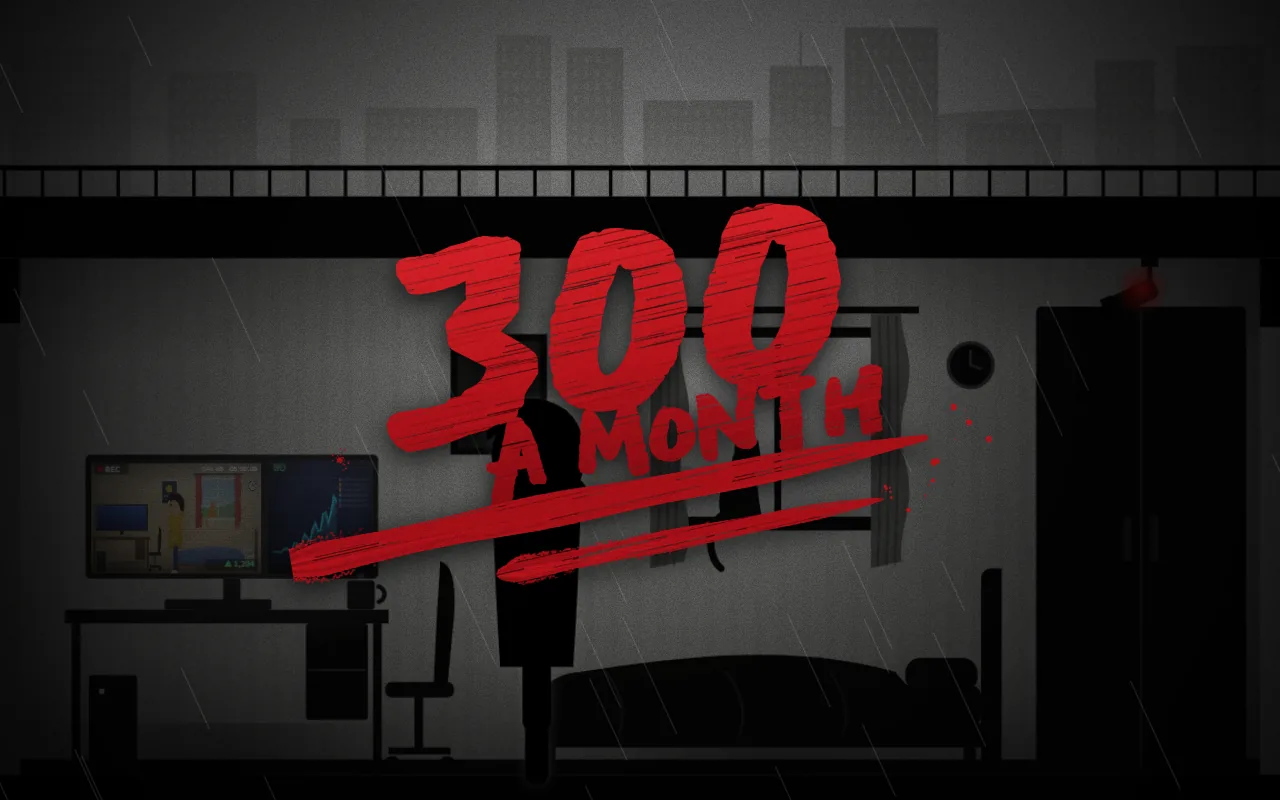
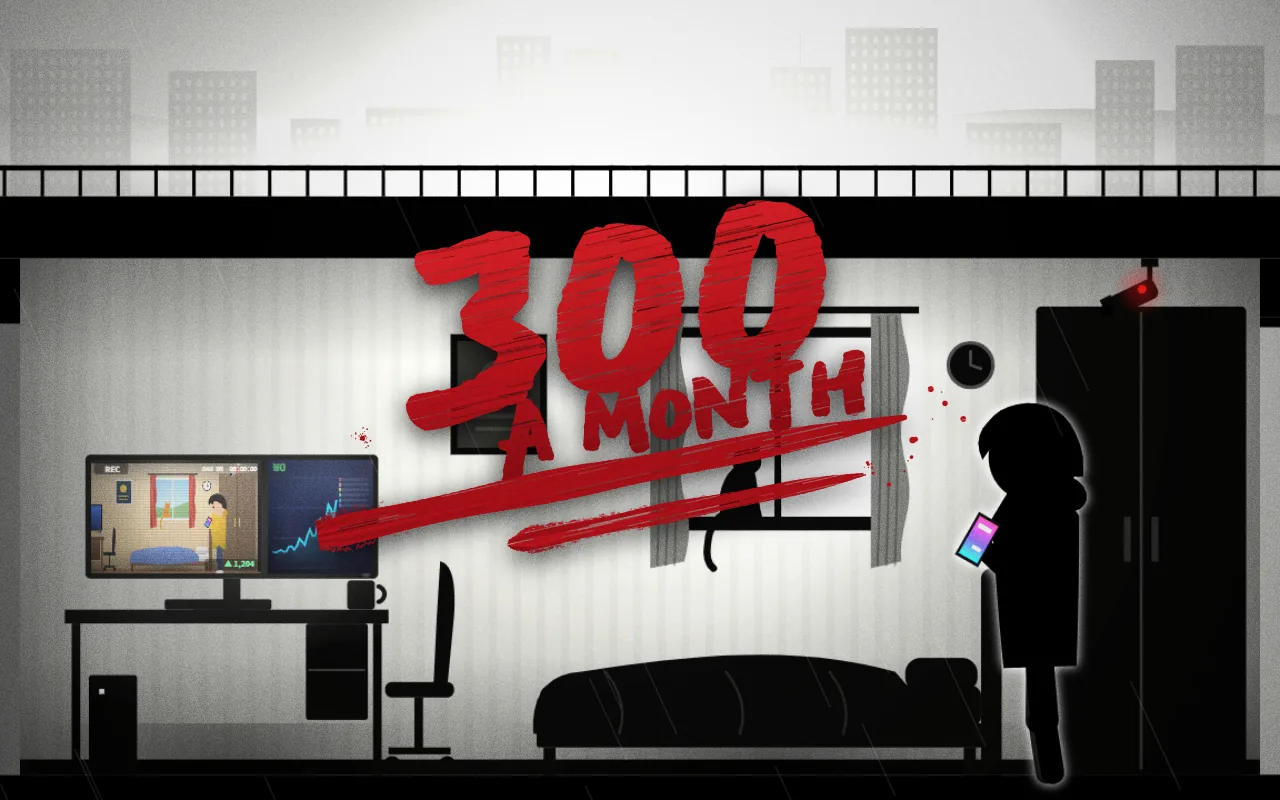
월300 표지·카드·미리보기 그림 한·영 다시 뜸: 주인공이 제목 뒤에 가려 안 보이던 것 → CCTV 달린 침실 오른쪽 구석 아래에서 폰 보는 자세로, 흰 테두리로 또렷하게, 화면 밝게(검은 막 뺌·밝기 1.32), 제목 조금 작게. 그림 주소 ?v=2 (사장님 2026-09-26 "카드에 사람이 안보이니까" "씨씨티비 달려있는 자리에" "폰보고있는장면" "너무 어두워" "사람이 안보임")

diff --git a/games/wol300/index.html b/games/wol300/index.html
@@ -24,7 +24,7 @@
 <meta property="og:title" content="월300 — 시뮬레이션게임·스토리게임·인디게임">
 <meta property="og:description" content="Ai에게 사생활데이터를 넘기고 기본소득300을 받아 생활하는 시뮬레이션게임 스토리게임. 오름게임즈가 만든 인디게임입니다. 자기의 사생활은 물론 길거리의 사람들을 찍어 AI 학습데이터 영상으로 팔아 3천만 원을 모읍니다.">
 <meta property="og:url" content="https://oreumgames.com/games/wol300/">
-<meta property="og:image" content="https://oreumgames.com/assets/wol300-og.webp?v=1">
+<meta property="og:image" content="https://oreumgames.com/assets/wol300-og.webp?v=2">
 <meta property="og:locale" content="ko_KR">
 <meta name="twitter:card" content="summary_large_image">
 
@@ -37,7 +37,7 @@
   "name": "월300",
   "alternateName": "300 A MONTH",
   "url": "https://oreumgames.com/games/wol300/",
-  "image": "https://oreumgames.com/assets/wol300-og.webp?v=1",
+  "image": "https://oreumgames.com/assets/wol300-og.webp?v=2",
   "description": "월300은 AI에게 사생활 데이터를 넘기고 한 달 기본소득 300만 원으로 사는 시뮬레이션게임이자 스토리게임입니다. 설치 없이 바로 하는 무료게임. 집 다섯 칸의 CCTV가 내 생활을 AI에 팔고, 라면 넘치기·의자 넘어지기 같은 사고와 골목 사람들을 캠코더로 찍은 영상은 AI 신선도 점수만큼 값이 붙습니다. 12달 안에 3천만 원을 모아 권총을 사고 CCTV를 모두 쏘면 엔딩입니다.",
   "applicationCategory": "GameApplication",
   "operatingSystem": "Web browser",
@@ -100,7 +100,7 @@
   <section class="showcase">
     <div class="wrap game-page">
       <a class="backlink" href="/games/">← 무료게임 목록</a>
-      <div class="gp-shot"><img src="/assets/wol300-shot.webp?v=1" alt="흑백으로 가라앉은 원룸 침실에 남자 실루엣과 창턱의 고양이, 모니터 화면만 컬러로 빛나고 그 위에 붉은 붓글씨로 월300 제목이 비스듬히 쓰여 있다" width="800" height="500"></div>
+      <div class="gp-shot"><img src="/assets/wol300-shot.webp?v=2" alt="흑백으로 가라앉은 원룸 침실에 남자 실루엣과 창턱의 고양이, 모니터 화면만 컬러로 빛나고 그 위에 붉은 붓글씨로 월300 제목이 비스듬히 쓰여 있다" width="800" height="500"></div>
       <h1>월300</h1>
       <p class="gp-cta"><a class="btn btn-primary" href="play/?v=20260926">🎮 바로 플레이</a></p>
       <p class="gp-line">월300은 AI에게 사생활 데이터를 넘기고 한 달 기본소득 300만 원으로 사는 시뮬레이션게임이자 스토리게임입니다. 설치 없이 웹에서 바로 하는 무료게임입니다.</p>

diff --git a/en/games/wol300/index.html b/en/games/wol300/index.html
@@ -24,7 +24,7 @@
 <meta property="og:title" content="300 A MONTH — simulation game, story game, indie game">
 <meta property="og:description" content="Sell your private life to an AI for a basic income of 3 million won a month. An indie game made by Oreum Games. Film your own private life, and the people on the street too, and sell it all to an AI as training footage to save 30 million won.">
 <meta property="og:url" content="https://oreumgames.com/en/games/wol300/">
-<meta property="og:image" content="https://oreumgames.com/assets/wol300-og-en.webp?v=1">
+<meta property="og:image" content="https://oreumgames.com/assets/wol300-og-en.webp?v=2">
 <meta property="og:locale" content="en_US">
 <meta name="twitter:card" content="summary_large_image">
 
@@ -37,7 +37,7 @@
   "name": "300 A MONTH",
   "alternateName": "월300",
   "url": "https://oreumgames.com/en/games/wol300/",
-  "image": "https://oreumgames.com/assets/wol300-og-en.webp?v=1",
+  "image": "https://oreumgames.com/assets/wol300-og-en.webp?v=2",
   "description": "300 A MONTH is a free simulation and story game about living on a basic income of 3 million won a month, paid for by letting an AI learn from your private life. Five CCTV cameras at home sell your daily routine; staged accidents and camcorder footage of strangers in the alley earn extra money based on how fresh the scene is to the AI. Save 30 million won within 12 months, buy a pistol and shoot every CCTV camera to reach the ending.",
   "applicationCategory": "GameApplication",
   "operatingSystem": "Web browser",
@@ -100,7 +100,7 @@
   <section class="showcase">
     <div class="wrap game-page">
       <a class="backlink" href="/en/games/">← All free games</a>
-      <div class="gp-shot"><img src="/assets/wol300-shot-en.webp?v=1" alt="A small bedroom drained to black and white, a man's silhouette and a cat on the windowsill, only the monitor glowing in color, with 300 A MONTH brushed across it in red" width="800" height="500"></div>
+      <div class="gp-shot"><img src="/assets/wol300-shot-en.webp?v=2" alt="A small bedroom drained to black and white, a man's silhouette and a cat on the windowsill, only the monitor glowing in color, with 300 A MONTH brushed across it in red" width="800" height="500"></div>
       <h1>300 A MONTH</h1>
       <p class="gp-cta"><a class="btn btn-primary" href="/games/wol300/play/?lang=en&amp;v=20260926">🎮 Play now</a></p>
       <p class="gp-line">300 A MONTH is a free simulation and story game about living on a basic income of 3 million won a month, paid for by letting an AI learn from your private life. It runs in your browser with nothing to install.</p>

diff --git a/index.html b/index.html
@@ -1140,7 +1140,7 @@
         "alternateName": "300 A MONTH",
         "url": "https://oreumgames.com/games/wol300/",
         "description": "월300은 AI에게 사생활 데이터를 넘기고 한 달 기본소득 300만 원으로 사는 시뮬레이션게임이자 스토리게임입니다.",
-        "image": "https://oreumgames.com/assets/wol300-og.webp?v=1",
+        "image": "https://oreumgames.com/assets/wol300-og.webp?v=2",
         "applicationCategory": "GameApplication",
         "operatingSystem": "Web browser",
         "datePublished": "2026-09-26",
@@ -1197,7 +1197,7 @@
       <div class="grid">
         <!-- CARDS:start -->
         <a class="mini" href="/games/wol300/">
-          <span class="shot"><img src="/assets/wol300-shot.webp?v=1" alt="흑백으로 가라앉은 원룸 침실에 남자 실루엣과 창턱의 고양이, 모니터 화면만 컬러로 빛나고 그 위에 붉은 붓글씨로 월300 제목이 비스듬히 쓰여 있다" width="800" height="500" loading="lazy"></span>
+          <span class="shot"><img src="/assets/wol300-shot.webp?v=2" alt="흑백으로 가라앉은 원룸 침실에 남자 실루엣과 창턱의 고양이, 모니터 화면만 컬러로 빛나고 그 위에 붉은 붓글씨로 월300 제목이 비스듬히 쓰여 있다" width="800" height="500" loading="lazy"></span>
           <span class="mbody"><b>월300</b><i>시뮬레이션게임 스토리게임</i></span>
         </a>
         <a class="mini" href="/games/fartlike/">

diff --git a/en/index.html b/en/index.html
@@ -1105,7 +1105,7 @@
         "alternateName": "월300",
         "url": "https://oreumgames.com/en/games/wol300/",
         "description": "A free simulation and story game in your browser: sell your private life to an AI for a basic income of 3 million won a month, and save 30 million won for a pistol.",
-        "image": "https://oreumgames.com/assets/wol300-og-en.webp?v=1",
+        "image": "https://oreumgames.com/assets/wol300-og-en.webp?v=2",
         "applicationCategory": "GameApplication",
         "operatingSystem": "Web browser",
         "datePublished": "2026-09-26",
@@ -1159,7 +1159,7 @@
       <div class="grid">
         <!-- CARDS:start -->
         <a class="mini" href="/en/games/wol300/">
-          <span class="shot"><img src="/assets/wol300-shot-en.webp?v=1" alt="A small bedroom drained to black and white, a man's silhouette and a cat on the windowsill, only the monitor glowing in color, with 300 A MONTH brushed across it in red" width="800" height="500" loading="lazy"></span>
+          <span class="shot"><img src="/assets/wol300-shot-en.webp?v=2" alt="A small bedroom drained to black and white, a man's silhouette and a cat on the windowsill, only the monitor glowing in color, with 300 A MONTH brushed across it in red" width="800" height="500" loading="lazy"></span>
           <span class="mbody"><b>300 A MONTH</b><i>Simulation game · Story game</i></span>
         </a>
         <a class="mini" href="/en/games/fartlike/">

diff --git a/games/index.html b/games/index.html
@@ -85,7 +85,7 @@
       <div class="grid">
         <!-- CARDS:start -->
         <a class="mini" href="/games/wol300/">
-          <span class="shot"><img src="/assets/wol300-shot.webp?v=1" alt="흑백으로 가라앉은 원룸 침실에 남자 실루엣과 창턱의 고양이, 모니터 화면만 컬러로 빛나고 그 위에 붉은 붓글씨로 월300 제목이 비스듬히 쓰여 있다" width="800" height="500" loading="lazy"></span>
+          <span class="shot"><img src="/assets/wol300-shot.webp?v=2" alt="흑백으로 가라앉은 원룸 침실에 남자 실루엣과 창턱의 고양이, 모니터 화면만 컬러로 빛나고 그 위에 붉은 붓글씨로 월300 제목이 비스듬히 쓰여 있다" width="800" height="500" loading="lazy"></span>
           <span class="mbody"><b>월300</b><i>시뮬레이션게임 스토리게임</i></span>
         </a>
         <a class="mini" href="/games/fartlike/">

diff --git a/en/games/index.html b/en/games/index.html
@@ -82,7 +82,7 @@
       <div class="grid">
         <!-- CARDS:start -->
         <a class="mini" href="/en/games/wol300/">
-          <span class="shot"><img src="/assets/wol300-shot-en.webp?v=1" alt="A small bedroom drained to black and white, a man's silhouette and a cat on the windowsill, only the monitor glowing in color, with 300 A MONTH brushed across it in red" width="800" height="500" loading="lazy"></span>
+          <span class="shot"><img src="/assets/wol300-shot-en.webp?v=2" alt="A small bedroom drained to black and white, a man's silhouette and a cat on the windowsill, only the monitor glowing in color, with 300 A MONTH brushed across it in red" width="800" height="500" loading="lazy"></span>
           <span class="mbody"><b>300 A MONTH</b><i>Simulation game · Story game</i></span>
         </a>
         <a class="mini" href="/en/games/fartlike/">
